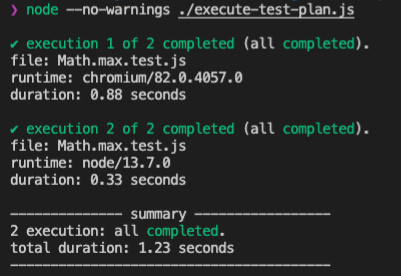
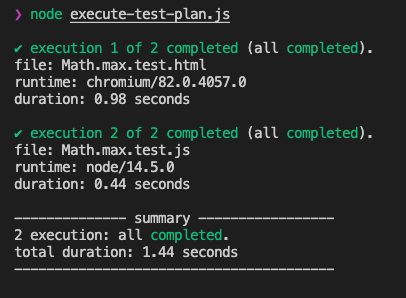
start updating doc

diff --git a/docs/testing/main-example/execute-test-plan.js b/docs/testing/main-example/execute-test-plan.js
@@ -1,15 +1,16 @@
 import { executeTestPlan, launchNode, launchChromiumTab } from "@jsenv/core"
 
 executeTestPlan({
-  logLevel: "debug",
   projectDirectoryUrl: new URL("./", import.meta.url),
   testPlan: {
-    "./*.test.js": {
-      browser: {
+    "./*.test.html": {
+      chromium: {
         launch: launchChromiumTab,
       },
+    },
+    "./*.test.js": {
       node: {
-        launch: (options) => launchNode({ ...options, debugMode: "none" }),
+        launch: launchNode,
       },
     },
   },

diff --git a/docs/testing/basic-project/execute-test-plan.js b/docs/testing/basic-project/execute-test-plan.js
@@ -3,15 +3,7 @@ import { executeTestPlan, launchNode, launchChromiumTab } from "@jsenv/core"
 executeTestPlan({
   projectDirectoryUrl: new URL("./", import.meta.url),
   testPlan: {
-    "./test/*.test.js": {
-      browser: {
-        launch: launchChromiumTab,
-      },
-      node: {
-        launch: launchNode,
-      },
-    },
-    "./test/*.test.browser.js": {
+    "./test/*.test.html": {
       browser: {
         launch: launchChromiumTab,
       },

diff --git a/docs/testing/basic-project/test/getRuntimeName.test.html b/docs/testing/basic-project/test/getRuntimeName.test.html
@@ -1,0 +1,18 @@
+<!DOCTYPE html>
+<html>
+  <head>
+    <meta charset="utf8" />
+    <link rel="icon" href="data:," />
+  </head>
+  <body>
+    <script type="module">
+      import { getRuntimeName } from "../getRuntimeName.js"
+
+      const actual = getRuntimeName()
+      const expected = "browser"
+      if (actual !== expected) {
+        throw new Error(`getRuntimeName must return ${expected}, got ${actual}`)
+      }
+    </script>
+  </body>
+</html>

diff --git a/docs/testing/main-example/Math.max.test.html b/docs/testing/main-example/Math.max.test.html
@@ -1,0 +1,10 @@
+<!DOCTYPE html>
+<html>
+  <head>
+    <meta charset="utf8" />
+    <link rel="icon" href="data:," />
+  </head>
+  <body>
+    <script type="module" src="./Math.max.test.js"></script>
+  </body>
+</html>

diff --git a/test-manual/exploring/error/error.html b/test-manual/exploring/error/error.html
@@ -1,3 +1,4 @@
+<!DOCTYPE html>
 <html>
   <head>
     <title>Title</title>

diff --git a/test-manual/exploring/syntax-error/syntax-error.html b/test-manual/exploring/syntax-error/syntax-error.html
@@ -1,3 +1,4 @@
+<!DOCTYPE html>
 <html>
   <head>
     <title>Title</title>

diff --git a/docs/exploring/readme.md b/docs/exploring/readme.md
@@ -1,3 +1,5 @@
+> This documentation is outdated, it needs to be updated
+
 # Table of contents
 
 - [Exploring presentation](#Exploring-presentation)
@@ -74,16 +76,15 @@ node -v
   node ./start-exploring.cjs
   ```
 
-A first server will start. This one is used by the whole jsenv project.<br />
-A second server will start. That's the one we're interested in right now. The url `http://127.0.0.1:3456` is logged in your terminal.<br />
+When exploring server starts `http://localhost:3456` is logged in your terminal.
 
-Once server is started you can navigate to `http://127.0.0.1:3456` and you will see an html page listing the files you can explore.
+Once server is started you can navigate to `http://localhost:3456` and you will see an html page listing the files you can explore.
 
 ![exploring chome screenshot](./exploring-chrome-screenshot.png)
 
-- If you go to `http://127.0.0.1:3456/src/hello.js` page displays `Hello world`.
+- If you go to `src/hello.js` page displays `Hello world`.
   It shows that if your file execution renders something, you can see the effect in your browser.
-- If you go to `http://127.0.0.1:3456/src/text.js` nothing special will happen because `/src/text.js` is just a module with an export default.<br />
+- If you go to `src/text.js` nothing special will happen because `src/text.js` is just a module with an export default.<br />
   It shows that even if your file do not render anything, you still can use this functionnality to debug your file.
 
 Now you have seen a basic example it's time to integrate it in your own project.
@@ -217,9 +218,9 @@ To avoid duplication some parameter are linked to a generic documentation.
 
 Using the return value is an advanced use case, in theory you should not need this.
 
-`startExploring` return signature is `{ exploringServer, compileServer }`.
+`startExploring` return signature is `exploringServer`.
 
-`exploringServer` and `compileServer` are server created by `@jsenv/server`. You can read the `@jsenv/server` documentation on the return value to see the shape of these objects.
+`exploringServer` is created by `@jsenv/server`. You can read the `@jsenv/server` documentation on the return value to see the shape of these objects.
 https://github.com/jsenv/jsenv-server/blob/master/docs/start-server.md#startServer-return-value.
 
 Code below shows how you might use return value.
@@ -227,10 +228,9 @@ Code below shows how you might use return value.
 ```js
 import { startExploring } from "@jsenv/core"
 
-const { exploringServer, compileServer } = await startExploring({
+const exploringServer = await startExploring({
   projectDirectoryUrl: new URL("./", import.meta.url),
 })
 
 exploringServer.stop()
-compileServer.stop()
 ```

diff --git a/readme.md b/readme.md
@@ -50,6 +50,21 @@ if (actual !== expected) {
 }
 ```
 
+`Math.max.test.html`
+
+```html
+<!DOCTYPE html>
+<html>
+  <head>
+    <meta charset="utf8" />
+    <link rel="icon" href="data:," />
+  </head>
+  <body>
+    <script type="module" src="./Math.max.test.js"></script>
+  </body>
+</html>
+```
+
 `execute-test-plan.js`
 
 ```js
@@ -58,10 +73,12 @@ import { executeTestPlan, launchNode, launchChromiumTab } from "@jsenv/core"
 executeTestPlan({
   projectDirectoryUrl: new URL("./", import.meta.url),
   testPlan: {
-    "./**/*.test.js": {
+    "./**/*.test.html": {
       chromium: {
         launch: launchChromiumTab,
       },
+    },
+    "./**/*.test.js": {
       node: {
         launch: launchNode,
       },
@@ -84,7 +101,7 @@ See [testing](./docs/testing/readme.md) documentation for more.
 npm install --save-dev @jsenv/core
 ```
 
-`@jsenv/core` is tested on Mac, Windows, Linux on Node.js 13.12.0. Other operating systems and Node.js versions are not tested.
+`@jsenv/core` is tested on Mac, Windows, Linux on Node.js 14.5.0. Other operating systems and Node.js versions are not tested.
 
 > Jsenv should be compatible with node 12.8 and above but it's no longer guaranteed.
 

diff --git a/docs/testing/readme.md b/docs/testing/readme.md
@@ -82,6 +82,8 @@ npm install
 node ./execute-test-plan.js
 ```
 
+> You need node 13+
+
 It will execute all your tests.
 
 ![basic project test execution terminal screenshot](./basic-project-terminal-screenshot.png)
